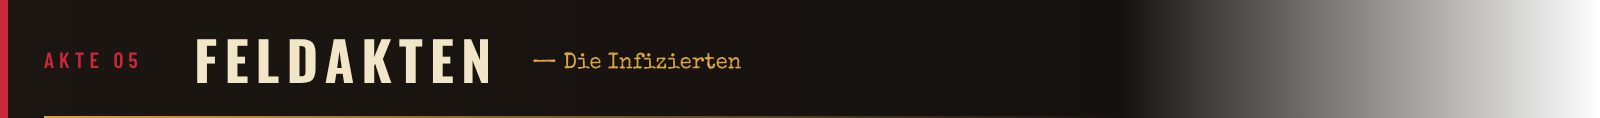
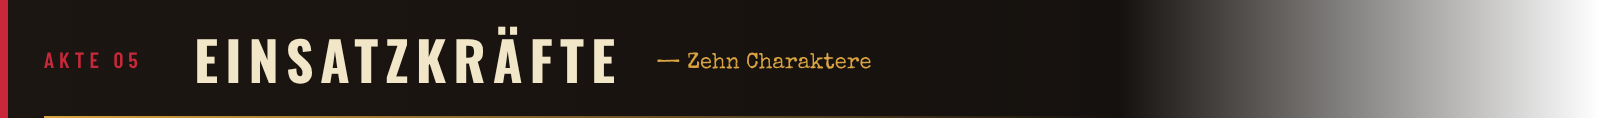
README: Tagesbefehl, Evakuierung, Controller, Kartenzombies, neue Kartenauswahl und Lexikon, Steuerung mit Controller
Claude-Session: https://claude.ai/code/session_01DR4TC7YJRSvBYf2nEX8Zp3

Changed region(s): [[0.125, 0.3305, 0.5625, 0.7119], [0.3125, 0.2288, 0.3438, 0.3051]]

diff --git a/README.md b/README.md
@@ -11,6 +11,7 @@
   <a href="https://github.com/beydo7/rotfall-releases/releases/latest"><img src="https://img.shields.io/github/downloads/beydo7/rotfall-releases/total?label=DOWNLOADS&style=for-the-badge&color=d9a441&labelColor=1a1410" alt="Downloads"></a>
   <img src="https://img.shields.io/badge/WINDOWS%20%7C%20BROWSER-5a4a3a?style=for-the-badge&labelColor=1a1410&logo=windows&logoColor=e8dcc0" alt="Plattform">
   <img src="https://img.shields.io/badge/8%20SPRACHEN-3a5a7a?style=for-the-badge&labelColor=1a1410&logo=googletranslate&logoColor=e8dcc0" alt="8 Sprachen">
+  <img src="https://img.shields.io/badge/CONTROLLER-6a4a7a?style=for-the-badge&labelColor=1a1410&logo=steamdeck&logoColor=e8dcc0" alt="Controller-Unterstützung">
   <img src="https://img.shields.io/badge/PLAYTEST-5a7a3a?style=for-the-badge&labelColor=1a1410" alt="Playtest">
 </p>
 
@@ -19,6 +20,9 @@
   <a href="https://github.com/beydo7/rotfall-releases/releases/latest"><img src="media/readme/btn-win.png" alt="Windows-Version laden" height="56"></a>
 </p>
 <p align="center"><sub><b>Kostenlos</b> &nbsp;·&nbsp; keine Anmeldung &nbsp;·&nbsp; dein Fortschritt bleibt bei Updates erhalten</sub></p>
+
+> [!TIP]
+> **Neu:** 📅 [Tagesbefehl](#tagesbefehl) für alle gleich · 🚁 Evakuierung nach Welle 20 · 🎮 Controller-Steuerung · 🧟 [ein eigener Zombie pro Karte](#kartenzombies) · 💥 Krits, Kill-Serien und mehr Wumms
 
 <br>
 
@@ -101,6 +105,20 @@ Wetter, Wäldchen und Deckung werden bei jedem Einsatz neu gewürfelt. Kein Durc
 
 </td>
 </tr>
+<tr>
+<td valign="top">
+
+### 🚁 Die Evakuierung
+Welle 20 geschafft? Noch nicht ganz. Der Helikopter landet, und du musst **30 Sekunden die Landezone halten**, während die Horde nicht aufhört.
+
+</td>
+<td valign="top">
+
+### 💥 Treffer mit Wumms
+Kritische Treffer leuchten golden, Elite-Zombies explodieren mit eigenem Effekt, und ab 10 schnellen Kills zählt deine **Kill-Serie** mit.
+
+</td>
+</tr>
 </table>
 
 <details>
@@ -115,14 +133,32 @@ flowchart LR
     B --> D[🛒 Nachschub<br/>nach jeder Welle]
     D --> E[🚪 Trümmer räumen<br/>⚙ Generatoren starten<br/>🔥 Waffe schmieden]
     E --> A
-    A -. Welle 20 .-> F([🚁 Evakuierung<br/>oder Endlos-Modus])
+    A -. Welle 20 .-> F[🚁 Landezone<br/>30 s halten]
+    F --> G([Evakuieren<br/>oder Endlos-Modus])
 ```
 
 </details>
 
 <br>
 
-<p align="center"><img src="media/readme/h03.png" alt="Akte 03 – Einsatzgebiete" width="100%"></p>
+<a id="tagesbefehl"></a>
+<p align="center"><img src="media/readme/h03.png" alt="Akte 03 – Tagesbefehl" width="100%"></p>
+
+<img src="media/readme/shot-daily.jpg" alt="Der Tagesbefehl" width="52%" align="right">
+
+Jeden Tag gibt Echo einen neuen Befehl aus, und **für alle ist er gleich**:
+
+- 🗺 dieselbe Karte, dieselbe Welt, dasselbe Wetter
+- 🎖 derselbe Charakter (auch wenn du ihn noch nicht freigeschaltet hast)
+- ➕ ein **Bonus**, zum Beispiel eine schon veredelte Startwaffe
+- ➖ ein **Haken**, zum Beispiel einer von Echos Pakten oder die Horde mit 150 % Bedrohung
+
+Dein Tagesbestwert wird gespeichert. Mit **„Ergebnis kopieren“** landet er als kurzer Text in der Zwischenablage. Ab in den Chat und vergleichen, wer am weitesten kommt!
+
+<br clear="right">
+<br>
+
+<p align="center"><img src="media/readme/h04.png" alt="Akte 04 – Einsatzgebiete" width="100%"></p>
 
 <table>
 <tr>
@@ -151,9 +187,14 @@ flowchart LR
 </tr>
 </table>
 
+<p align="center">
+  <img src="media/readme/shot-levels.jpg" alt="Die Kartenauswahl" width="85%">
+  <br><sub><i>Die Kartenauswahl: Wolfsgrund schaltest du ab Welle 8 frei, Grauheim ab Welle 6, die Atomwüste ab Welle 10.</i></sub>
+</p>
+
 <br>
 
-<p align="center"><img src="media/readme/h04.png" alt="Akte 04 – Einsatzkräfte" width="100%"></p>
+<p align="center"><img src="media/readme/h05.png" alt="Akte 05 – Einsatzkräfte" width="100%"></p>
 
 <p align="center">
   <img src="media/readme/shot-akten.jpg" alt="Personalakten: Charakterauswahl" width="85%">
@@ -176,7 +217,7 @@ Zehn Charaktere, jeder mit eigener Startwaffe, eigenen Werten und einer **Spezia
 
 <br>
 
-<p align="center"><img src="media/readme/h05.png" alt="Akte 05 – Feldakten" width="100%"></p>
+<p align="center"><img src="media/readme/h06.png" alt="Akte 06 – Feldakten" width="100%"></p>
 
 <img src="media/readme/shot-feld.jpg" alt="Feldakten" width="46%" align="right">
 
@@ -193,30 +234,38 @@ Dann sind da noch **der Schlachter**, **Oberst Krüger** und *er*: **der Erstgeb
 Alles, was du über sie herausfindest, landet in den **Feldakten**, mit Echos ganz persönlichen Notizen.
 
 <br clear="right">
+
+<a id="kartenzombies"></a>
+<p align="center">
+  <img src="media/readme/zombies.jpg" alt="Jede Karte hat ihren eigenen Zombie" width="100%">
+</p>
+
 <br>
 
-<p align="center"><img src="media/readme/h06.png" alt="Akte 06 – Arsenal" width="100%"></p>
+<p align="center"><img src="media/readme/h07.png" alt="Akte 07 – Arsenal" width="100%"></p>
 
 <p align="center">
   <img src="media/readme/arsenal.jpg" alt="Alle 17 Waffen, normal und veredelt" width="100%">
 </p>
 
-Im **Lexikon** im Hauptmenü findest du jede Waffe mit allen Werten pro Stufe, dazu Perks, Power-Ups, Pakte und alles Wissenswerte über Kessel 9.
+Im **Lexikon** im Hauptmenü findest du jede Waffe mit Wertebalken für jede Stufe und veredelt, dazu Perks, Power-Ups, Pakte und alles Wissenswerte. Mit Suche.
+
+<p align="center">
+  <img src="media/readme/shot-lex.jpg" alt="Das Lexikon" width="85%">
+</p>
 
 <details>
-<summary><b>📸 Weitere Bilder</b> <sub>(Hauptmenü, Lexikon, Einsatzgebiete, Akte)</sub></summary>
+<summary><b>📸 Weitere Bilder</b> <sub>(Hauptmenü, Akte)</sub></summary>
 <br>
 <p align="center">
   <img src="media/readme/shot-menu.jpg" alt="Hauptmenü" width="100%"><br><br>
-  <img src="media/readme/shot-lex.jpg" alt="Lexikon" width="100%"><br><br>
-  <img src="media/readme/shot-gebiete.jpg" alt="Einsatzgebiete" width="60%">
-  <img src="media/akte.jpg" alt="Die Akte: Projekt Rotfall" width="38%">
+  <img src="media/akte.jpg" alt="Die Akte: Projekt Rotfall" width="70%">
 </p>
 </details>
 
 <br>
 
-<p align="center"><img src="media/readme/h07.png" alt="Akte 07 – Ausrüstung anfordern" width="100%"></p>
+<p align="center"><img src="media/readme/h08.png" alt="Akte 08 – Ausrüstung anfordern" width="100%"></p>
 
 <p align="center">
   <a href="https://beydo7.github.io/rotfall-releases/play/"><img src="media/readme/btn-play.png" alt="Im Browser spielen" height="56"></a>&nbsp;&nbsp;
@@ -244,24 +293,33 @@ Auf der [Download-Seite](https://github.com/beydo7/rotfall-releases/releases/lat
 
 <br>
 
-<p align="center"><img src="media/readme/h08.png" alt="Akte 08 – Dienstanweisung" width="100%"></p>
+<p align="center"><img src="media/readme/h09.png" alt="Akte 09 – Dienstanweisung" width="100%"></p>
 
 <div align="center">
 
 | Taste | Aktion | | Taste | Aktion |
 |:-:|---|---|:-:|---|
-| <kbd>W</kbd> <kbd>A</kbd> <kbd>S</kbd> <kbd>D</kbd> | Laufen | | <kbd>E</kbd> | Benutzen (Trümmer, Automaten, Kiste …) |
-| 🖱 Maus | Kamera drehen | | <kbd>1</kbd> <kbd>2</kbd> <kbd>3</kbd> | Upgrade wählen |
-| <kbd>Leertaste</kbd> | Springen | | 🖱 Mausrad | Zoom |
-| <kbd>Shift</kbd> | Ausweichen (kurz unverwundbar) | | <kbd>Esc</kbd> | Pause & Optionen |
-| <kbd>Q</kbd> / Rechtsklick | Spezialfähigkeit | | <kbd>F11</kbd> | Vollbild |
-| | | | <kbd>F8</kbd> | Fehlerbericht kopieren |
+| Aktion | ⌨ Tastatur & Maus | 🎮 Controller |
+|---|:-:|:-:|
+| Laufen | <kbd>W</kbd> <kbd>A</kbd> <kbd>S</kbd> <kbd>D</kbd> | linker Stick |
+| Kamera drehen | 🖱 Maus | rechter Stick |
+| Springen | <kbd>Leertaste</kbd> | <kbd>A</kbd> / <kbd>✕</kbd> |
+| Ausweichen (kurz unverwundbar) | <kbd>Shift</kbd> | <kbd>B</kbd> / <kbd>◯</kbd> oder <kbd>LB</kbd> |
+| Benutzen (Trümmer, Automaten, Kiste …) | <kbd>E</kbd> | <kbd>X</kbd> / <kbd>▢</kbd> |
+| Spezialfähigkeit | <kbd>Q</kbd> / Rechtsklick | <kbd>Y</kbd> / <kbd>△</kbd> oder <kbd>RB</kbd> |
+| Zoom | 🖱 Mausrad | Trigger |
+| Pause & Optionen | <kbd>Esc</kbd> | <kbd>Start</kbd> |
+| Upgrade wählen | <kbd>1</kbd> <kbd>2</kbd> <kbd>3</kbd> | Steuerkreuz + <kbd>A</kbd> |
+| Vollbild | <kbd>F11</kbd> | |
+| Fehlerbericht kopieren | <kbd>F8</kbd> | |
+
+In allen Menüs: Steuerkreuz oder Stick zum Auswählen, <kbd>A</kbd> bestätigen, <kbd>B</kbd> zurück, <kbd>LB</kbd>/<kbd>RB</kbd> wechselt Reiter.
 
 </div>
 
 <br>
 
-<p align="center"><img src="media/readme/h09.png" alt="Akte 09 – Rückfragen" width="100%"></p>
+<p align="center"><img src="media/readme/h10.png" alt="Akte 10 – Rückfragen" width="100%"></p>
 
 <details>
 <summary><b>💻 Läuft das Spiel auf meinem PC?</b></summary>
@@ -275,6 +333,20 @@ Windows 10 oder 11 (64 Bit) und eine Grafikkarte der letzten Jahre reichen. Ruck
 <br>
 
 Ja, und in sechs weiteren Sprachen: **Deutsch · English · Español · Français · Português (BR) · Русский · 简体中文 · 日本語**. Umstellen unter **Optionen → Anzeige → „Sprache · Language“**.
+</details>
+
+<details>
+<summary><b>🎮 Kann ich mit Controller spielen?</b></summary>
+<br>
+
+Ja. Xbox- und PlayStation-Controller funktionieren im Spiel und in allen Menüs, einfach einstecken oder per Bluetooth verbinden und eine Taste drücken.
+</details>
+
+<details>
+<summary><b>📅 Wann gibt es einen neuen Tagesbefehl?</b></summary>
+<br>
+
+Jeden Tag um Mitternacht (deine Ortszeit). Du kannst ihn beliebig oft versuchen, gezählt wird dein bestes Ergebnis des Tages.
 </details>
 
 <details>
